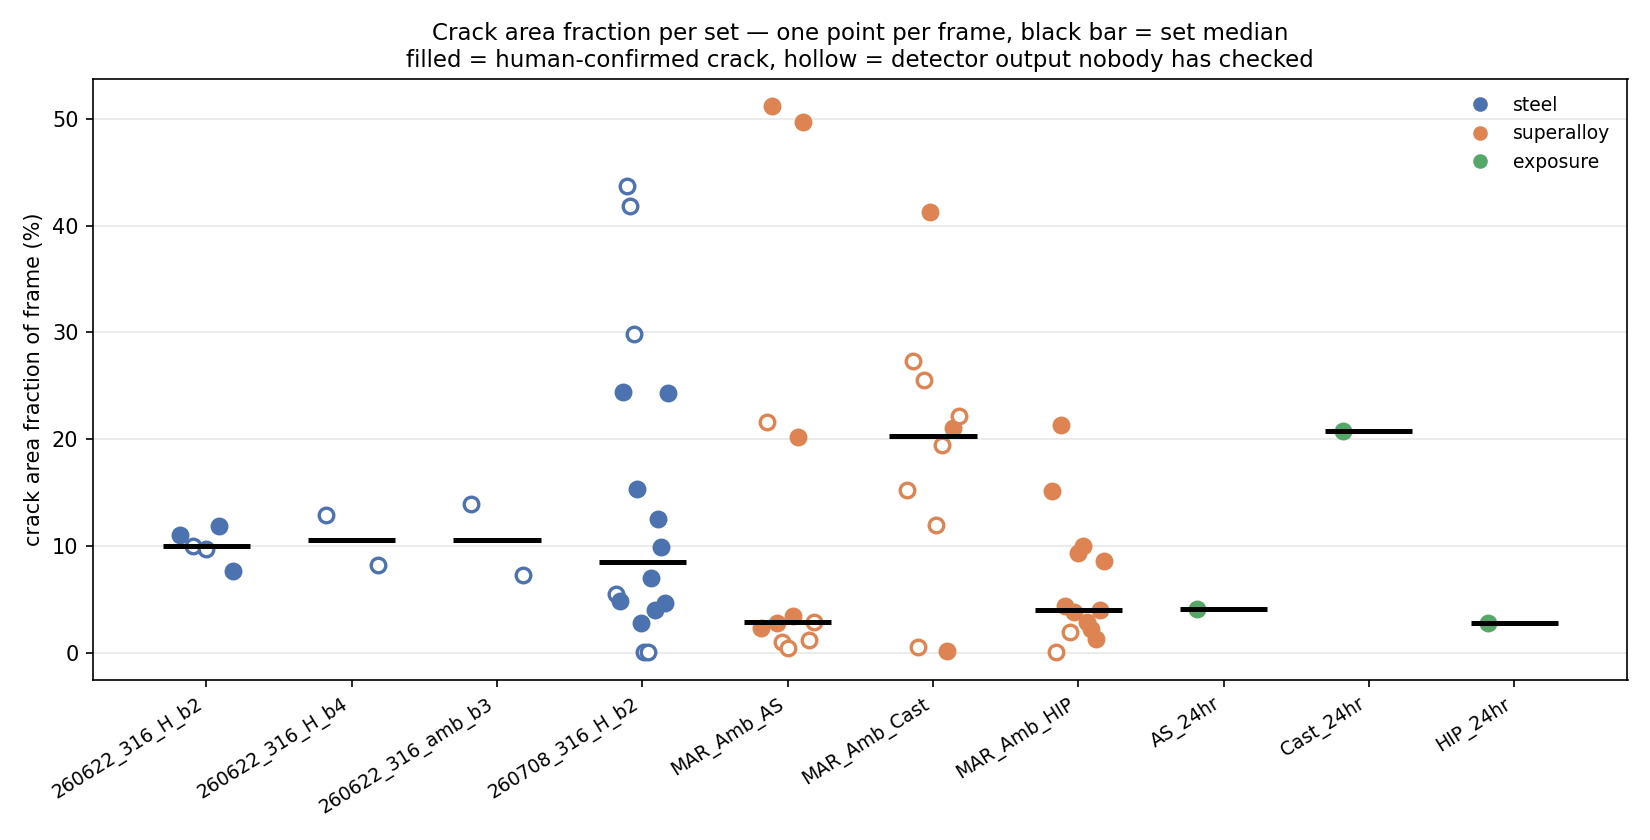
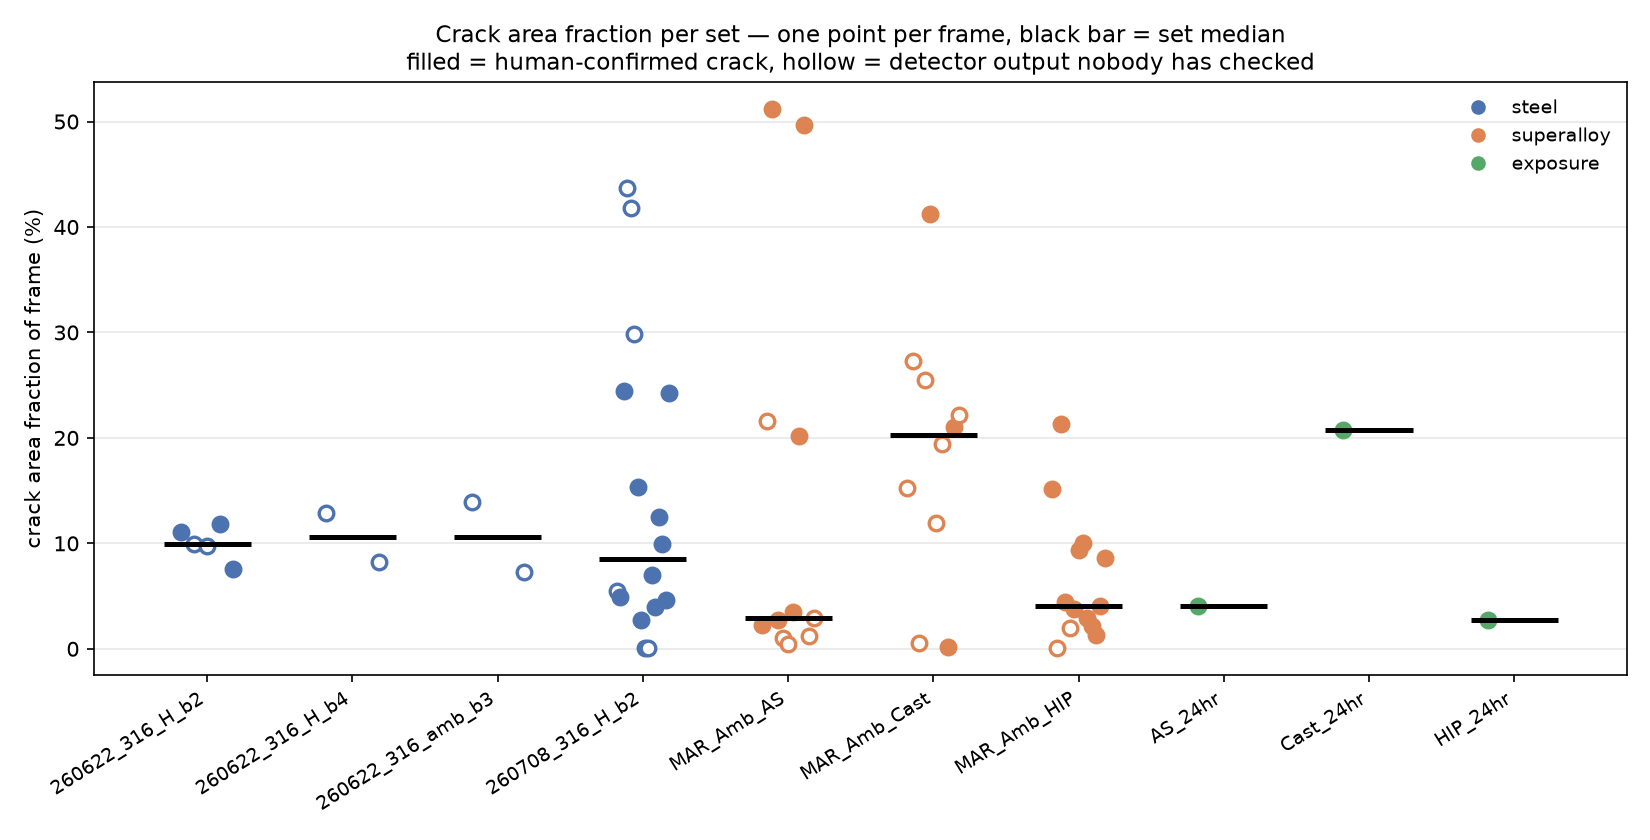
A figure whose title contradicted its own bars, and the headline AUC was a different model
I CALLED best_detector.py "THE SHIPPED DETECTOR" ON THE FRONT PAGE. That was wrong, and I
wrote it yesterday. The application never imports it -- `grep -r best_detector
interior_active_learning/` returns nothing -- and README:77 says the shipped detector is
the bare two-pass pipeline. best_detector.py is the winning arm of the OFFLINE evaluation.
Corrected in all three places that conflated them, including the module's own docstring,
which opened by calling itself "the model".

THE HEADLINE AUC DESCRIBED A MODEL THAT IS NOT DEPLOYED. "Region level, on images the
classifier never saw: AUC 0.801 +/- 0.044 ... This is the headline" comes from
benchmark_results.json: 243 Pass-2 regions from 24 images, predating the relabelling pass.
The deployed bundle's own pooled grouped-CV is 0.7144 +/- 0.0278 over 7,505 rows from 45
images, and it appeared nowhere in this README. The honest number is now the headline, the
older run is kept with its scope stated, and the 0.801 further down is labelled.

Beside it, "the retrain gate's own bar: AUC 0.885 on a held-out specimen
(leave-one-specimen-out)" was true but misleading. The holdout IS specimen-aware
(HOLD_OUT_WHOLE_SPECIMEN = True), but the specimen AS_24hr has exactly one frame in this
corpus -- the trainer's own comment says the trap "is not armed for the CURRENT HELD" -- so
the figure rests on a single image. That is why it reads ~0.17 above the 45-image pooled
score. Both are now given together.
[…]

diff --git a/crack_export/tools/report_sets.py b/crack_export/tools/report_sets.py
@@ -198,8 +198,15 @@ for j, det in enumerate(("CBS", "ETD")):
         ax.plot(np.full(v.size, x) + np.linspace(-.05, .05, v.size), v, "ko", ms=5, zorder=3)
 ax.set_xticks(range(3)); ax.set_xticklabels(("AS", "Cast", "HIP"))
 ax.set_xlabel("processing route"); ax.set_ylabel("crack area fraction (%)")
+# THE TITLE MUST MATCH THE BARS. It said "HIP is lowest under BOTH detectors"; the medians
+# this figure plots are CBS AS 2.523 / Cast 25.508 / HIP 4.399 and ETD AS 3.457 / Cast 19.457
+# / HIP 3.469, so AS is lowest under both and HIP under neither. A baked title is not checked
+# by anything, so it outlived the data it describes.
 ax.set_title("MAR_Amb: process is crossed with detector, so the two are separable\n"
-             "bar = median, dots = frames. HIP is lowest under BOTH detectors.", fontsize=11)
+             "bar = median, dots = frames. Cast is highest under both detectors;\n"
+             "AS and HIP are close and their order is not stable across detectors.\n"
+             "Routes were shot at different magnifications - see CORRECTION_scale_and_magnification.md",
+             fontsize=10)
 ax.legend(frameon=False); ax.grid(axis="y", alpha=.3)
 fig.tight_layout(); fig.savefig(os.path.join(FIG, "fig2_mar_process_detector.png"), dpi=150); plt.close(fig)
 

diff --git a/crack_export/analysis/sam3/best_detector.py b/crack_export/analysis/sam3/best_detector.py
@@ -1,6 +1,11 @@
 #!/usr/bin/env python3
 """The best-performing crack detector found on this corpus, as one runnable function.
 
+NOT THE SHIPPED DETECTOR. This is the winning arm of the offline evaluation in this
+directory. The application in interior_active_learning/ does not import this module -- its
+detector is the two-pass pipeline documented in the root README. Calling this "the model"
+conflated the two; they are different code with different numbers.
+
     detect(grey_uint8) -> boolean mask
 
 CONFIGURATION (chosen by leave-one-frame-out over 44 labelled frames, never on the test frame):

diff --git a/README.md b/README.md
@@ -21,7 +21,7 @@ app does not import any of it:
 | | |
 |---|---|
 | **the app** | the paint / correct / retrain loop described below. `./run` |
-| **the detector benchmark** | [`crack_export/analysis/sam3/POSITION_VS_2026.md`](crack_export/analysis/sam3/POSITION_VS_2026.md) — the shipped detector is a Meijering ridge filter in one function (`best_detector.py`), evaluated over 44 frames against the published OmniCrack30k nnU-Net, zero-shot SAM 3, and classical thresholds at matched tuning budgets. Headline finding: **a perfect 3 px trace scores median pixel IoU 0.1662 on these labels**, so pixel IoU here ranks brush imitation rather than correctness — Otsu wins IoU (0.2945) while predicting 1.45x the labelled area. On the width-insensitive metric over 44 frames the ridge filters do separate from Otsu (Meijering +0.0741, p = 0.0049, surviving Bonferroni and BH); on the 15-tile subset the published OmniCrack30k nnU-Net does not separate from a one-line threshold (p = 0.359 on IoU). Read it before quoting any number from it |
+| **the detector benchmark** | [`crack_export/analysis/sam3/POSITION_VS_2026.md`](crack_export/analysis/sam3/POSITION_VS_2026.md) — an **offline evaluation**, not the app's detector. It scores the published OmniCrack30k nnU-Net, zero-shot SAM 3, ridge filters and classical thresholds over 44 frames at matched tuning budgets. Its best-scoring arm is a Meijering ridge filter in one function (`best_detector.py`); **the app does not import it** and the shipped detector remains the bare two-pass pipeline described below. Headline finding: **a perfect 3 px trace scores median pixel IoU 0.1662 on these labels**, so pixel IoU here ranks brush imitation rather than correctness — Otsu wins IoU (0.2945) while predicting 1.45x the labelled area. On the width-insensitive metric over 44 frames the ridge filters do separate from Otsu (Meijering +0.0741, p = 0.0049, surviving Bonferroni and BH); on the 15-tile subset the published OmniCrack30k nnU-Net does not separate from a one-line threshold (p = 0.359 on IoU). Read it before quoting any number from it |
 | **the claim registry** | `crack_export/tools/verify_claims.py` recomputes all 55 quoted statistics from their source artefacts. Run it if you doubt a number |
 | **the results page** | `crack_export/analysis/sam3/index.html` — all 62 frames, filterable, clickable. Serve the folder; see that README |
 
@@ -295,19 +295,33 @@ bar and loses the other is refused with that stated as the reason.
 Three numbers, because they answer three different questions and conflating them is how this
 kind of README misleads.
 
-- **Region level, on images the classifier never saw: AUC 0.801 ± 0.044, balanced accuracy
-  0.766 ± 0.012, worst repeat 0.744.** This is the headline, because grouping the
-  cross-validation by source image is the only way to answer "how will it do on a frame it has
-  not seen". 5 × StratifiedGroupKFold(5) over 243 Pass-2 candidate regions — 168 crack, 75
-  not — drawn from 24 images, train and test never sharing one. Recall 0.777, specificity
-  0.755, precision 0.877. From `benchmark_results.json`.
+- **Region level, on images the classifier never saw: AUC 0.7144 ± 0.0278.** This is the
+  headline, because grouping the cross-validation by source image is the only way to answer
+  "how will it do on a frame it has not seen". It is the **deployed** bundle's own pooled
+  grouped-CV score, over its 7,505 training rows (6,408 crack, 1,097 not) from 45 images —
+  read it yourself out of `models/crack_classifier.joblib`:
+  `cv_results[model_family]["pooled_auc"]`. It is also the second bar the retrain gate checks.
+
+  > An earlier edition of this README gave **AUC 0.801 ± 0.044** here (balanced accuracy
+  > 0.766 ± 0.012, worst repeat 0.744, recall 0.777, specificity 0.755, precision 0.877,
+  > 5 × StratifiedGroupKFold(5) over 243 Pass-2 candidate regions from 24 images, from
+  > `benchmark_results.json`). That run is real but it is **not this model**: it predates the
+  > relabelling pass and covers 243 regions from 24 images against the deployed bundle's 7,505
+  > rows from 45. Quoting it as the shipped model's grouped-CV figure overstated it by 0.087.
+  > The benchmark figures further down this page come from that same older run — they are
+  > labelled where they appear.
 - **Pixel level, on adjudicated pixels: f1 0.638, recall 0.534, specificity 0.460, precision
   0.970** over the ten frames carrying both a crack and a not-crack verdict. Lower than the
   region number and not in conflict with it: getting a region's *label* right is an easier
   question than getting its *boundary* right, and roughly 47% of crack pixels are still missed.
   From `sam2_hybrid_report.json`.
-- **The retrain gate's own bar: AUC 0.885** on a held-out specimen (`AS_24hr_BSE_Side_008`,
-  leave-one-specimen-out), against 0.862 in-sample. A retrain that cannot beat the recorded
+- **The retrain gate's first bar: AUC 0.885** on a held-out specimen (`AS_24hr_BSE_Side_008`,
+  leave-one-specimen-out), against 0.862 in-sample. **Read this one with the pooled figure
+  above, not instead of it.** The holdout is specimen-aware by construction
+  (`train_v3_weighted.py`, `HOLD_OUT_WHOLE_SPECIMEN = True`), but the specimen `AS_24hr`
+  contains exactly one frame in this corpus, so in practice the number rests on a single
+  image — which is why it reads ~0.17 higher than the 45-image pooled score, and why the gate
+  now checks both. A retrain that cannot beat the recorded
   out-of-sample baseline is refused rather than promoted. That 0.885 is the figure for the
   model this README was written against; the bar is whatever the *deployed* bundle records, so
   it moves when you promote a retrain — the sidebar reads it live and is the authority. (For
@@ -340,7 +354,8 @@ nobody sees.
 positive.** RandomForest posts the highest accuracy at 0.816 while its specificity is 0.549:
 it scores well largely by saying "crack". On balanced accuracy the order inverts —
 LogisticRegression 0.766, SVC (RBF) 0.784, RandomForest 0.743 — and LogisticRegression has the
-best AUC of the six at 0.801. That, plus being the only one whose decision surface is eight
+best AUC of the six at 0.801 *on that older 243-region / 24-image run* (see the note above;
+the deployed bundle's pooled grouped-CV is 0.7144). That, plus being the only one whose decision surface is eight
 coefficients you can read, is why it ships. A more flexible model does not have the data to
 justify itself here: 243 regions from 24 images.
 
@@ -827,10 +842,20 @@ and lifting it needs a segmenter that proposes independently.
 
 ### The threshold nobody states
 
-Both passes accept a region when its probability clears a threshold. The shipped bundle
-carries **no threshold key**, so production runs at the `0.5` fallback — a library default
-reached by omission, sitting under every crack count and crack length in this repository,
-and invisible in every figure. `--threshold` makes it explicit and the manifest records it.
+Both passes accept a region when its probability clears a threshold. **This section used to
+say the shipped bundle carried no threshold key and ran at the `0.5` library fallback. That is
+no longer true and the section was not updated.** `models/crack_classifier.joblib` now carries
+`threshold = 0.5538`, with a `threshold_provenance` record naming how it was picked (quantile
+transfer of a matched-recall threshold, quantile 0.8788, held-out image
+`AS_24hr_BSE_Side_008`). Read it yourself:
+
+```bash
+./.venv/bin/python3 -c "import joblib; b=joblib.load('models/crack_classifier.joblib'); print(b['threshold'], b['threshold_provenance'])"
+```
+
+The operating point is therefore calibrated, not inherited — but it is still a single number
+sitting under every crack count and crack length here, and it is still invisible in every
+figure. `--threshold` makes it explicit and the manifest records it.
 `experiments/threshold_sensitivity.py` measures how far the published quantities actually
 move across 0.3–0.7 instead of assuming the answer.
 

diff --git a/docs/COMPETITIVE_POSITION.md b/docs/COMPETITIVE_POSITION.md
@@ -94,7 +94,7 @@ more than saying six.
 | boundary-touching flag | **done**. `TouchesBoundary` / `BoundaryPx` / `LengthIsCensored` per crack, and `aggregate.py` refuses longest-crack-per-frame where censoring is unknown rather than taking a maximum over lower bounds. |
 | specimen as the default statistical unit | **done**. `n_specimens` beside `n_cracks`, means averaged per specimen, dispersion refused below three independent units. |
 | headless batch CLI | **done**: `code/semcrack.py`, with the refusals in the README's table and a run manifest pinning model, threshold and directories. |
-| threshold sensitivity | **done, and measured**: sweeping 0.3–0.7 through both passes on 9 frames moves crack count **1.34–1.38×** and area fraction **1.02–1.23×**; the count is **1.4–3.5× more sensitive** than the area within a specimen (a draft said 15x, which took the max of a ratio whose denominator is how little the area moved, and so selected a specimen whose area is mostly off-specimen background). The condition ordering did **not** flip, which was the prediction, so the claim is "state your threshold" rather than "comparisons are wrong". The override was found not to reach Pass 2's `interior_fill` branch, so the first run measured a partly-frozen detector; the sweep was re-run with a pre-flight check proving the override reaches every branch, and on the three frames complete under both versions the effect is **2 cracks in 1,665 (0.120%) on one frame, with every reported span unchanged to five decimal places** — the changes fell at interior threshold levels while a max/min span is fixed by the endpoints. The shipped operating point turned out to be the `0.5` fallback of `bundle.get("threshold", 0.5)` — a library default reached by omission, under every number here. |
+| threshold sensitivity | **done, and measured**: sweeping 0.3–0.7 through both passes on 9 frames moves crack count **1.34–1.38×** and area fraction **1.02–1.23×**; the count is **1.4–3.5× more sensitive** than the area within a specimen (a draft said 15x, which took the max of a ratio whose denominator is how little the area moved, and so selected a specimen whose area is mostly off-specimen background). The condition ordering did **not** flip, which was the prediction, so the claim is "state your threshold" rather than "comparisons are wrong". The override was found not to reach Pass 2's `interior_fill` branch, so the first run measured a partly-frozen detector; the sweep was re-run with a pre-flight check proving the override reaches every branch, and on the three frames complete under both versions the effect is **2 cracks in 1,665 (0.120%) on one frame, with every reported span unchanged to five decimal places** — the changes fell at interior threshold levels while a max/min span is fixed by the endpoints. (⛔ The clause that once closed this cell — "the shipped operating point turned out to be the `0.5` fallback of `bundle.get(\"threshold\", 0.5)`, a library default reached by omission" — is **out of date**: `models/crack_classifier.joblib` carries `threshold = 0.5538` with a `threshold_provenance` record. The sensitivity measurement above is unaffected; it sweeps the threshold either way.) |
 | pixel-size sensitivity | **not a table, and here is why.** Length scales with the pixel size and area with its square; a table of that is arithmetic, and `experiments/failure_mode_magnitudes.py` already measures the case that bites (a mis-read bar: up to +136% length, +458% area). What is genuinely missing is not sensitivity but **uncertainty**: a hand-marked bar span carries a few pixels of aiming error at each end, so every µm column is a point estimate with an interval nobody reports. That is the version worth building. |
 | Zenodo DOI | **needs a person.** Nothing in code produces one. |
 

diff --git a/docs/APP_COMPARISON.md b/docs/APP_COMPARISON.md
@@ -76,14 +76,13 @@ that a threshold is calibrated per model and stored in its bundle, so exposing a
 slider would invite moving off a calibrated operating point without the
 measurement that justified it.
 
-That reasoning is sound and it does not describe what ships. **The deployed
-bundle, `models/crack_classifier.joblib`, carries no `threshold` key at all**, so
-`bundle.get("threshold", 0.5)` returns the fallback and production runs at exactly
-**0.5** — a library default reached by omission. (An earlier draft of this
-paragraph cited 0.40 chosen on a held-out image; the bundle that does carry a
-calibrated threshold, `crack_classifier_v3_weighted.joblib`, stores 0.5615 and is
-not the one in use.) So the argument against a slider currently protects a number
-nobody chose. `experiments/threshold_sensitivity.py` measures what that number is
+That reasoning is sound. **This paragraph used to say the deployed bundle carried
+no `threshold` key and ran at the `0.5` fallback; that is out of date.**
+`models/crack_classifier.joblib` carries `threshold = 0.5538` with a
+`threshold_provenance` record (quantile transfer of a matched-recall threshold,
+quantile 0.8788, held-out image `AS_24hr_BSE_Side_008`). So the argument against a
+slider now protects a chosen number rather than an inherited one — which makes it
+a stronger argument, not a weaker one, and it should be made on those terms. `experiments/threshold_sensitivity.py` measures what that number is
 worth: moving it across 0.3–0.7 changes crack count by 1.28–1.41× while leaving
 the ordering of conditions intact. If a slider is wanted later, the honest version
 ships that curve beside it.

diff --git a/crack_export/analysis/CORRECTION_scale_and_magnification.md b/crack_export/analysis/CORRECTION_scale_and_magnification.md
@@ -73,8 +73,12 @@ on a single frame.
   matched 319 µm, AS is the *highest* by area (50.4 %), not the lowest.
 - **AS vs Cast is not resolvable.** The ordering flips with the metric (AS higher
   by area, Cast higher by length density) and they tie at 1040 µm.
-- **HIP being least cracked survives** — lowest at matched 319 µm by area, and
-  lowest in the pooled data too.
+- **HIP being least cracked survives at matched magnification** — lowest at matched
+  319 µm by area. ⛔ The clause "and lowest in the pooled data too" is **false and is
+  withdrawn**: pooled medians of `CrackAreaPct` from `per_frame_metrics.csv` are AS 3.179 /
+  Cast 20.764 / HIP 3.898 over all frames (AS 2.902 / Cast 20.266 / HIP 4.032 over MAR_Amb),
+  so **AS** is lowest pooled, under either scope. The matched-magnification result is the
+  one that stands; the pooled one never did, which is this document's own argument.
 - Do **not** use the pooled physical length density (HIP appears *highest* at
   97,497 µm/mm²) — that is pure magnification confound, since HIP is the set shot
   at 10–59 µm HFW where fine cracks resolve.

diff --git a/crack_export/analysis/sam3/README.md b/crack_export/analysis/sam3/README.md
@@ -19,7 +19,7 @@ obtained or why an earlier version of it was wrong.
 
 | file | what it does |
 |---|---|
-| `best_detector.py` | **the model.** `detect(grey) -> mask`. Meijering ridge, σ 1–4, top 1% (quantile 99, the whole-frame deployment setting), drop ≤32 px |
+| `best_detector.py` | **the best-scoring arm of this evaluation** — *not* the app's detector, which is the two-pass pipeline in `interior_active_learning/` and does not import this. `detect(grey) -> mask`. Meijering ridge, σ 1–4, top 1% (quantile 99, the whole-frame deployment setting), drop ≤32 px |
 | `best_config.json` | its parameters, chosen by leave-one-frame-out |
 | `detect_all_frames.py` | runs it over all 62 originals at full resolution → `detector_masks/`, `detector_overlays/` |
 | `contact_sheet.py` | every frame on one page, ordered worst-last → `detector_contact_sheet.png` |
